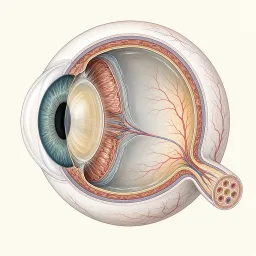
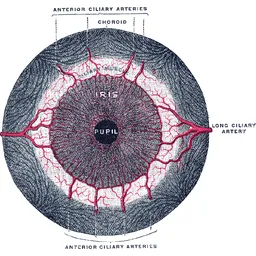
feat: replace stomach, eye, and CNS glance tiles with Gray anatomy plates (#275)
feat(atlas): replace stomach eye CNS glance tiles with Gray plates

diff --git a/tests/client/atlasEntry.test.ts b/tests/client/atlasEntry.test.ts
@@ -250,26 +250,40 @@ describe("entryGlance", () => {
     expect(resolveSitePortrait("skin")?.src).toMatch(/skin\.webp$/);
   });
 
-  it("credits the open-licence liver site plate", () => {
-    expect(resolveSitePortrait("liver")).toEqual({
-      src: "/atlas/sites/liver.webp",
-      archetype: "liver",
-    });
+  it("credits open-licence site Heroes plates", () => {
     const credits = readFileSync(
       new URL("../../public/atlas/sites/CREDITS.md", import.meta.url),
       "utf8",
     );
-    expect(credits).toMatch(/`liver\.webp`/);
-    expect(credits).toMatch(/BodyParts3D/);
+    const heroes: Array<{
+      archetype: string;
+      file: string;
+      marker: string;
+    }> = [
+      { archetype: "liver", file: "liver.webp", marker: "BodyParts3D" },
+      { archetype: "lungs", file: "lungs.webp", marker: "Gray973" },
+      { archetype: "stomach", file: "stomach.webp", marker: "Gray1046" },
+      { archetype: "eye", file: "eye.webp", marker: "Gray878" },
+      {
+        archetype: "central nervous system",
+        file: "central-nervous-system.webp",
+        marker: "Gray724",
+      },
+    ];
     expect(credits).toMatch(/CC BY-SA 2\.1 JP/);
-    expect(resolveSitePortrait("lungs")?.src).toMatch(/lungs\.webp$/);
-    expect(credits).toMatch(/`lungs\.webp`/);
-    expect(credits).toMatch(/Gray973/);
-    expect(
-      existsSync(
-        new URL("../../public/atlas/sites/liver.webp", import.meta.url),
-      ),
-    ).toBe(true);
+    for (const h of heroes) {
+      expect(resolveSitePortrait(h.archetype)).toEqual({
+        src: `/atlas/sites/${h.file}`,
+        archetype: h.archetype,
+      });
+      expect(credits).toContain(`\`${h.file}\``);
+      expect(credits).toContain(h.marker);
+      expect(
+        existsSync(
+          new URL(`../../public/atlas/sites/${h.file}`, import.meta.url),
+        ),
+      ).toBe(true);
+    }
   });
 
   it("passes PPP min/max for the glance timeline", () => {
